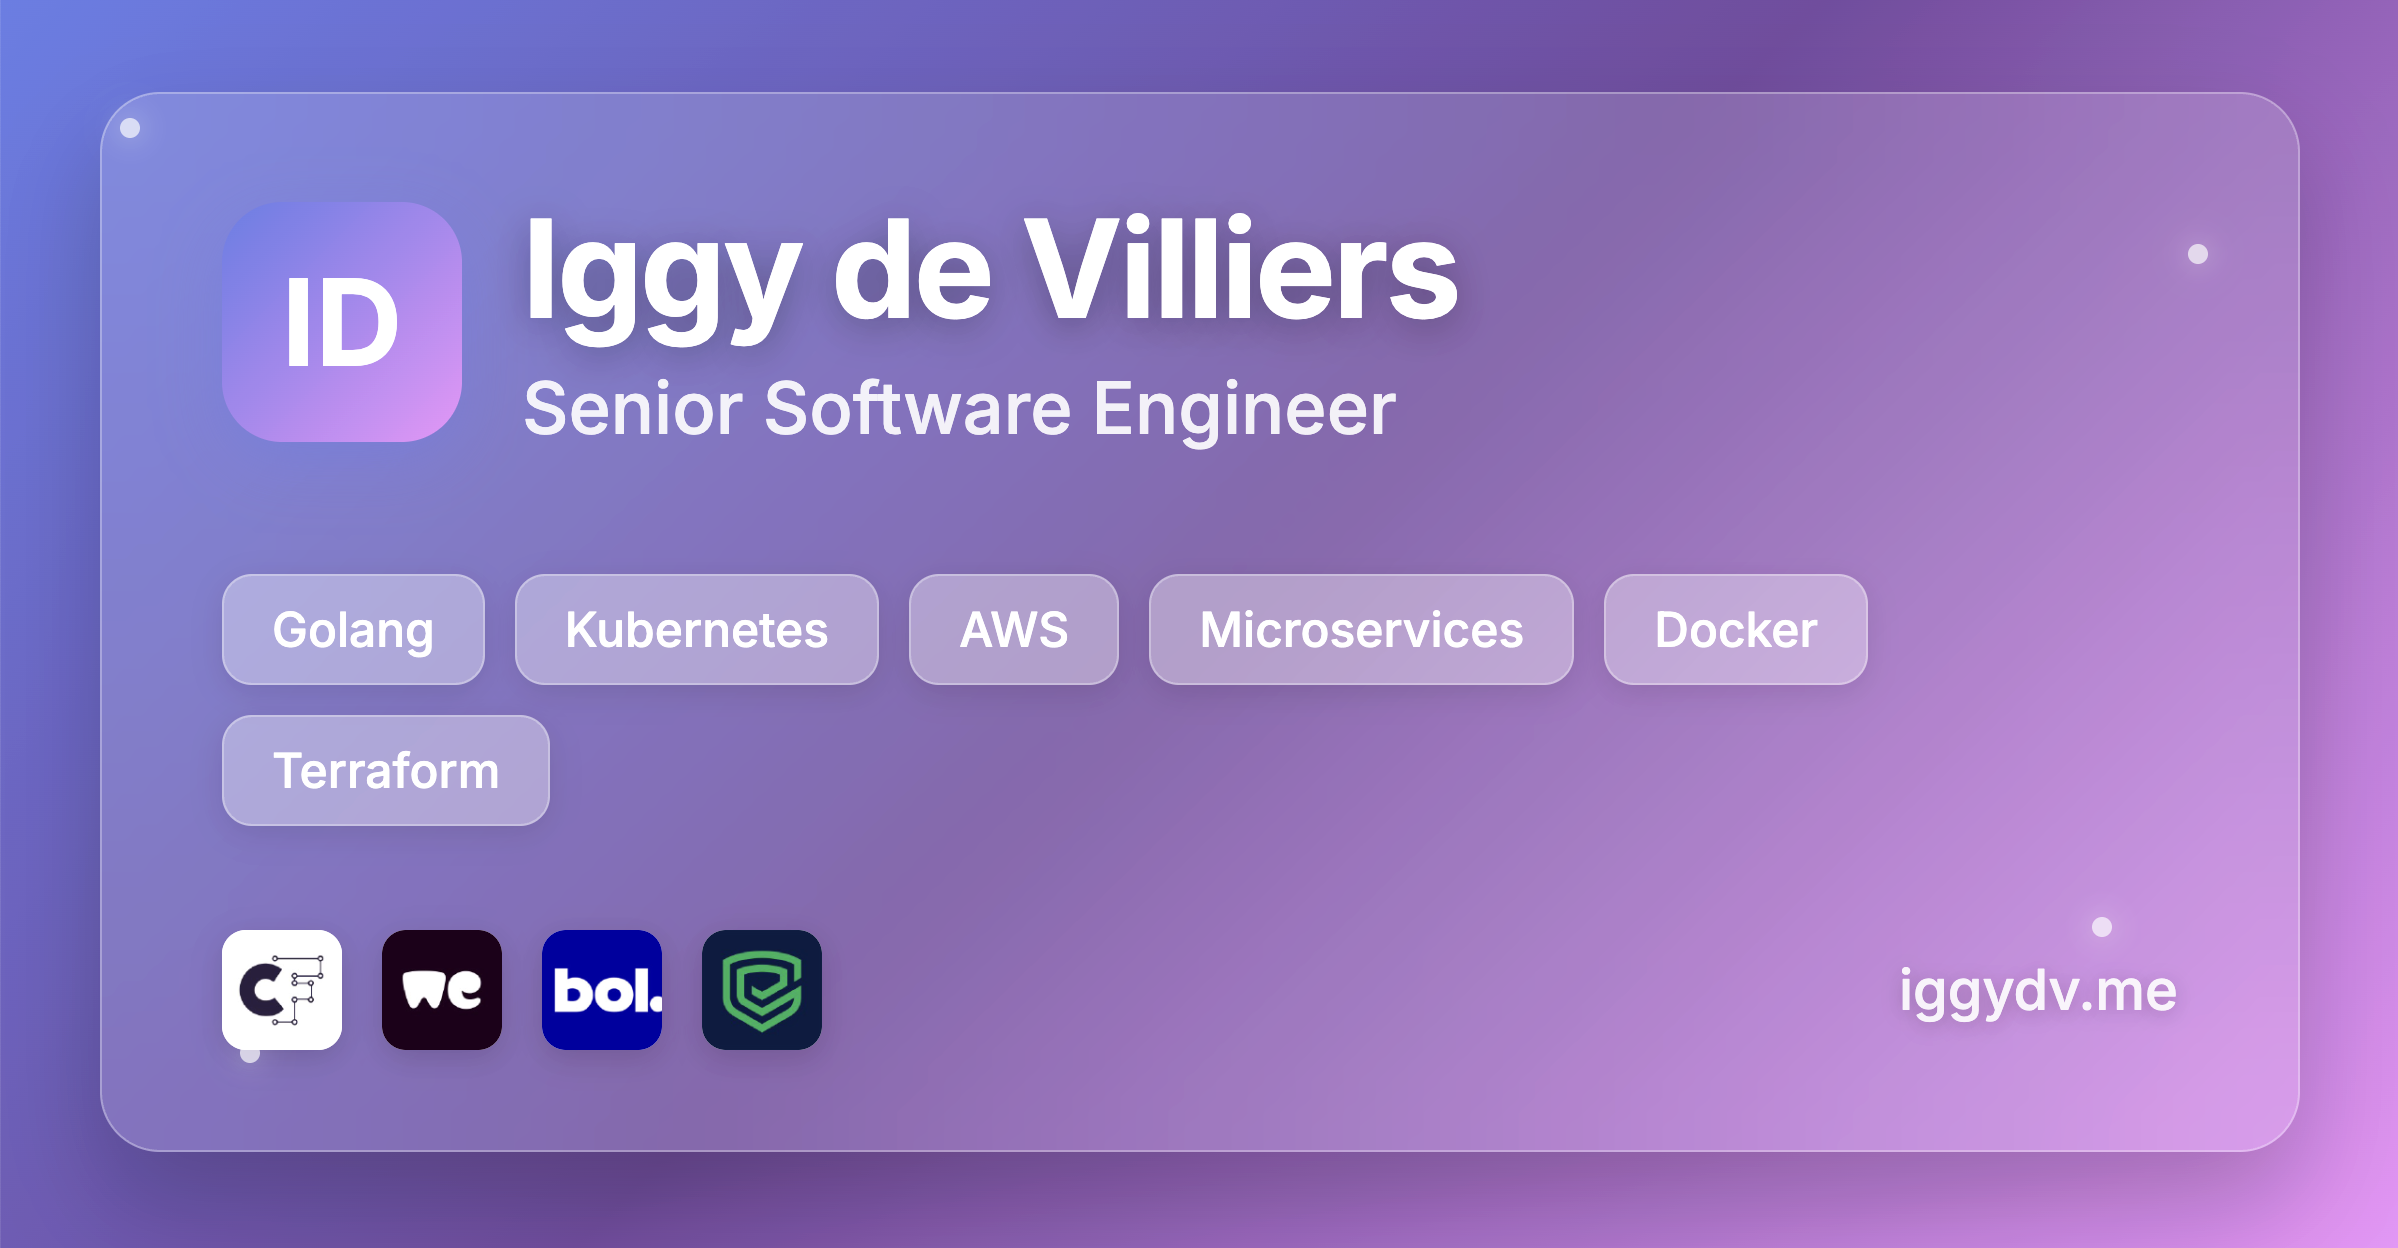
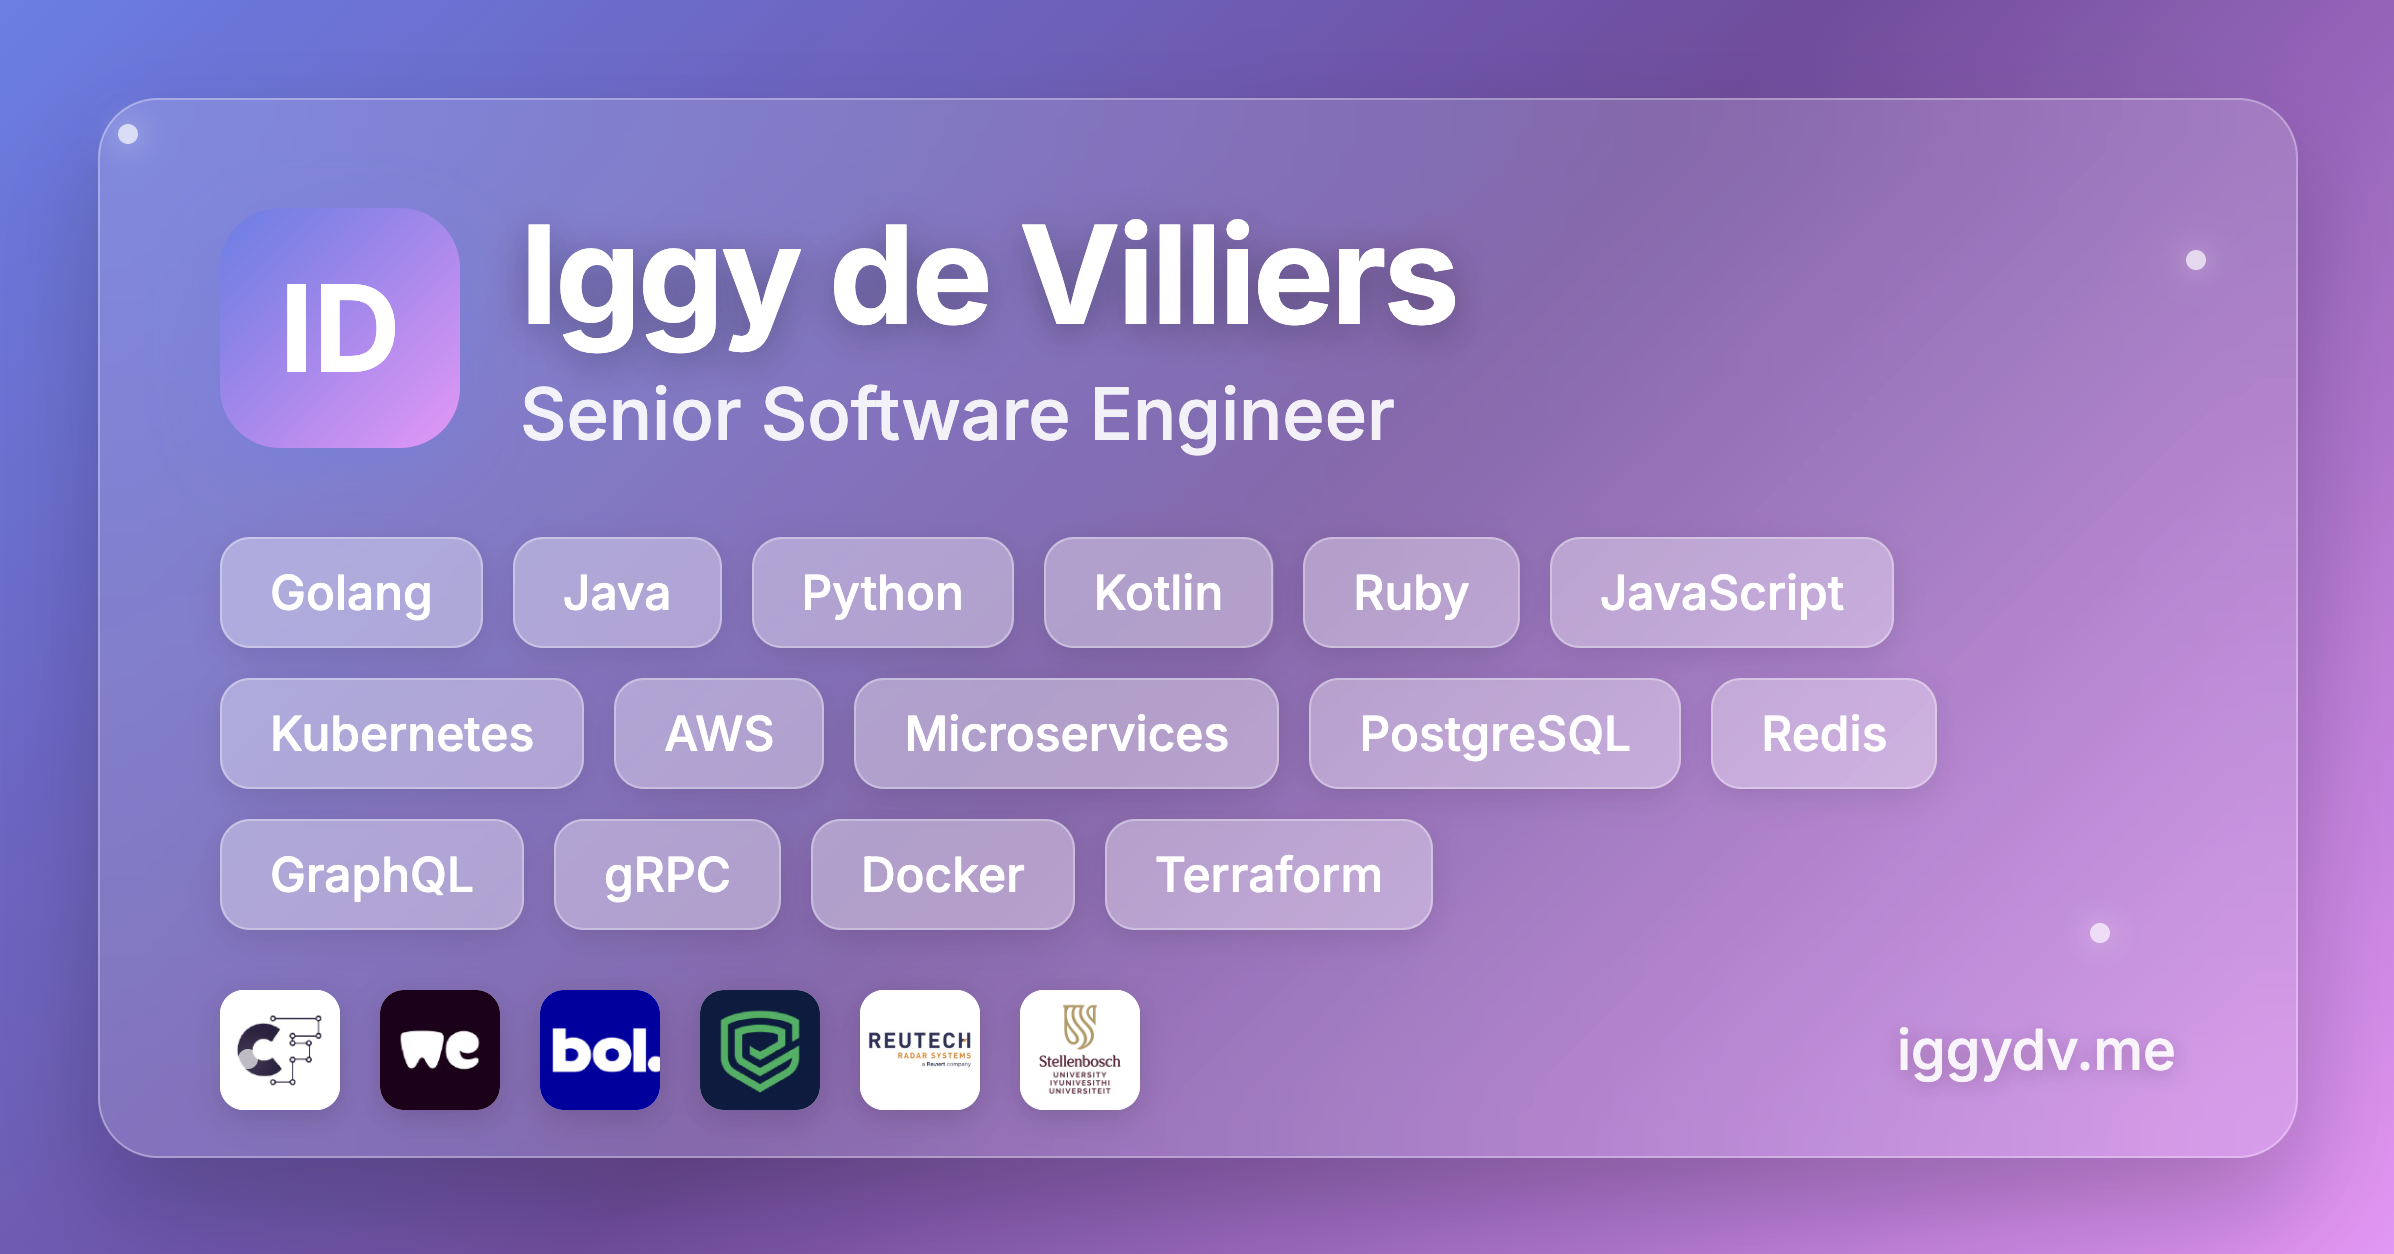
Update skill levels

diff --git a/index.html b/index.html
@@ -225,7 +225,7 @@
                                 <span class="skill-years">13 yrs</span>
                             </div>
                             <div class="skill-bar">
-                                <div class="skill-fill" data-skill="100"></div>
+                                <div class="skill-fill" data-skill="90"></div>
                             </div>
                         </div>
                         <div class="skill-item">
@@ -234,7 +234,7 @@
                                 <span class="skill-years">8 yrs</span>
                             </div>
                             <div class="skill-bar">
-                                <div class="skill-fill" data-skill="75"></div>
+                                <div class="skill-fill" data-skill="85"></div>
                             </div>
                         </div>
                         <div class="skill-item">
@@ -243,7 +243,7 @@
                                 <span class="skill-years">8 yrs</span>
                             </div>
                             <div class="skill-bar">
-                                <div class="skill-fill" data-skill="75"></div>
+                                <div class="skill-fill" data-skill="85"></div>
                             </div>
                         </div>
                         <div class="skill-item">
@@ -252,7 +252,7 @@
                                 <span class="skill-years">8 yrs</span>
                             </div>
                             <div class="skill-bar">
-                                <div class="skill-fill" data-skill="70"></div>
+                                <div class="skill-fill" data-skill="85"></div>
                             </div>
                         </div>
                         <div class="skill-item">
@@ -261,7 +261,7 @@
                                 <span class="skill-years">8 yrs</span>
                             </div>
                             <div class="skill-bar">
-                                <div class="skill-fill" data-skill="75"></div>
+                                <div class="skill-fill" data-skill="85"></div>
                             </div>
                         </div>
                         <div class="skill-item">
@@ -270,7 +270,7 @@
                                 <span class="skill-years">6 yrs</span>
                             </div>
                             <div class="skill-bar">
-                                <div class="skill-fill" data-skill="60"></div>
+                                <div class="skill-fill" data-skill="80"></div>
                             </div>
                         </div>
                         <div class="skill-item">
@@ -279,7 +279,7 @@
                                 <span class="skill-years">3 yrs</span>
                             </div>
                             <div class="skill-bar">
-                                <div class="skill-fill" data-skill="45"></div>
+                                <div class="skill-fill" data-skill="60"></div>
                             </div>
                         </div>
                         <div class="skill-item">
@@ -288,7 +288,7 @@
                                 <span class="skill-years">3 yrs</span>
                             </div>
                             <div class="skill-bar">
-                                <div class="skill-fill" data-skill="40"></div>
+                                <div class="skill-fill" data-skill="60"></div>
                             </div>
                         </div>
                         <div class="skill-item">
@@ -297,7 +297,7 @@
                                 <span class="skill-years">3 yrs</span>
                             </div>
                             <div class="skill-bar">
-                                <div class="skill-fill" data-skill="40"></div>
+                                <div class="skill-fill" data-skill="60"></div>
                             </div>
                         </div>
                     </div>

diff --git a/create-og-image.html b/create-og-image.html
@@ -167,9 +167,18 @@
 
         <div class="og-skills">
             <span class="og-skill-tag">Golang</span>
+            <span class="og-skill-tag">Java</span>
+            <span class="og-skill-tag">Python</span>
+            <span class="og-skill-tag">Kotlin</span>
+            <span class="og-skill-tag">Ruby</span>
+            <span class="og-skill-tag">JavaScript</span>
             <span class="og-skill-tag">Kubernetes</span>
             <span class="og-skill-tag">AWS</span>
             <span class="og-skill-tag">Microservices</span>
+            <span class="og-skill-tag">PostgreSQL</span>
+            <span class="og-skill-tag">Redis</span>
+            <span class="og-skill-tag">GraphQL</span>
+            <span class="og-skill-tag">gRPC</span>
             <span class="og-skill-tag">Docker</span>
             <span class="og-skill-tag">Terraform</span>
         </div>
@@ -187,6 +196,12 @@
                 </div>
                 <div class="og-company-logo">
                     <img src="logos/entersekt.png" alt="Entersekt" onerror="this.parentElement.innerHTML='🔐'">
+                </div>
+                <div class="og-company-logo">
+                    <img src="logos/reutech.png" alt="Reutech" onerror="this.parentElement.innerHTML='🔐'">
+                </div>
+                <div class="og-company-logo">
+                    <img src="logos/stellies.png" alt="Stellies" onerror="this.parentElement.innerHTML='🔐'">
                 </div>
             </div>
             <div class="og-url">iggydv.me</div>
